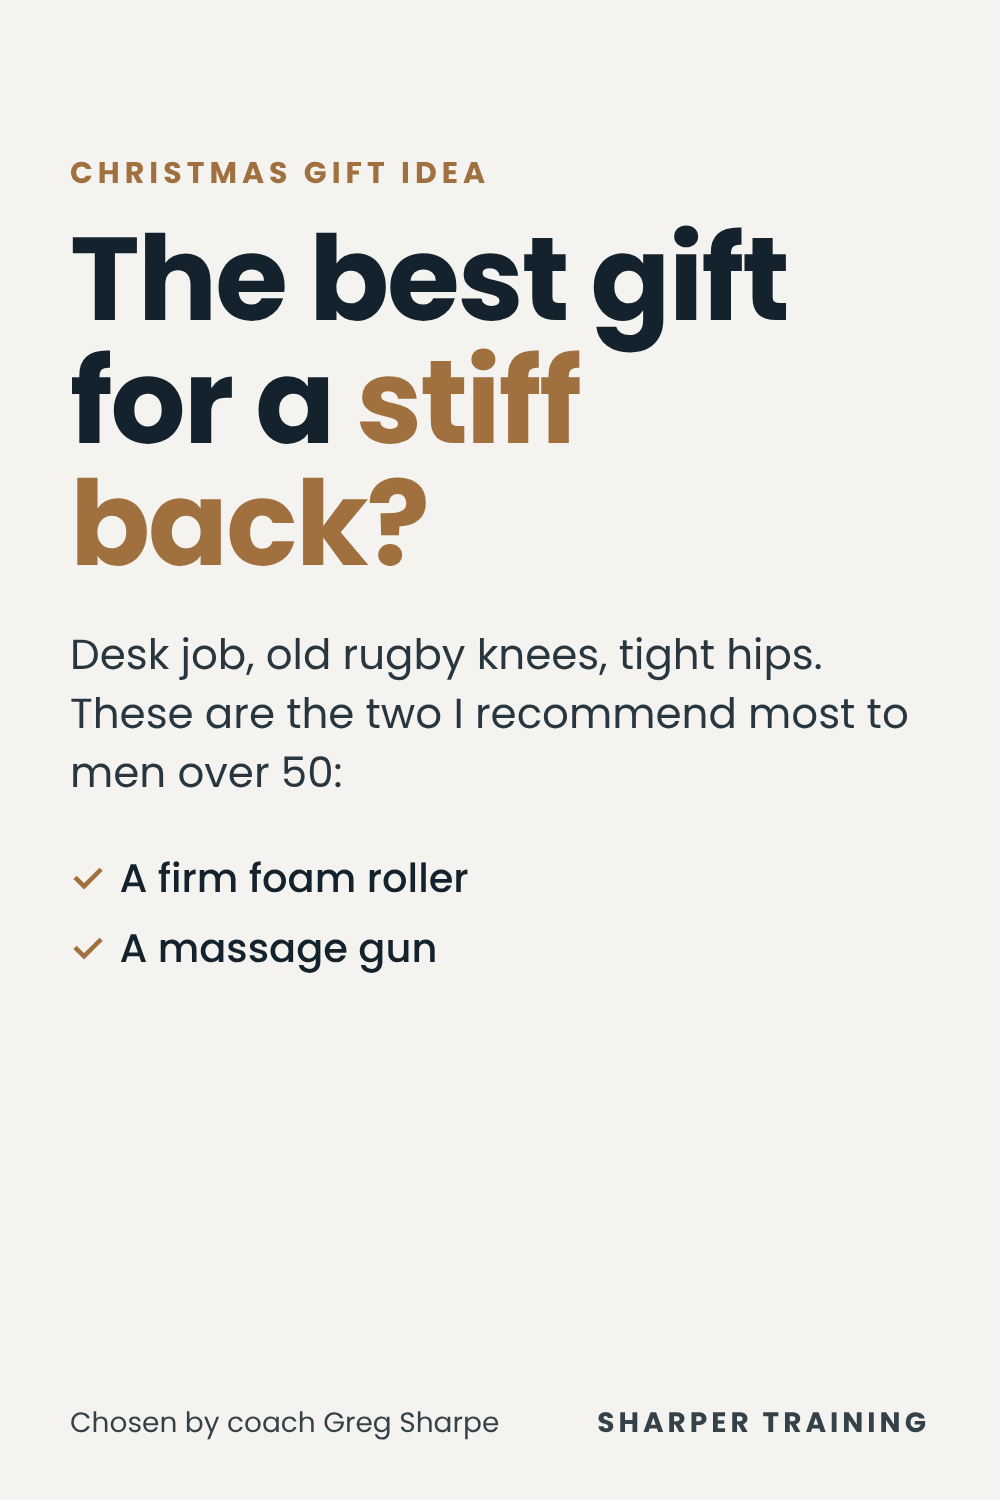
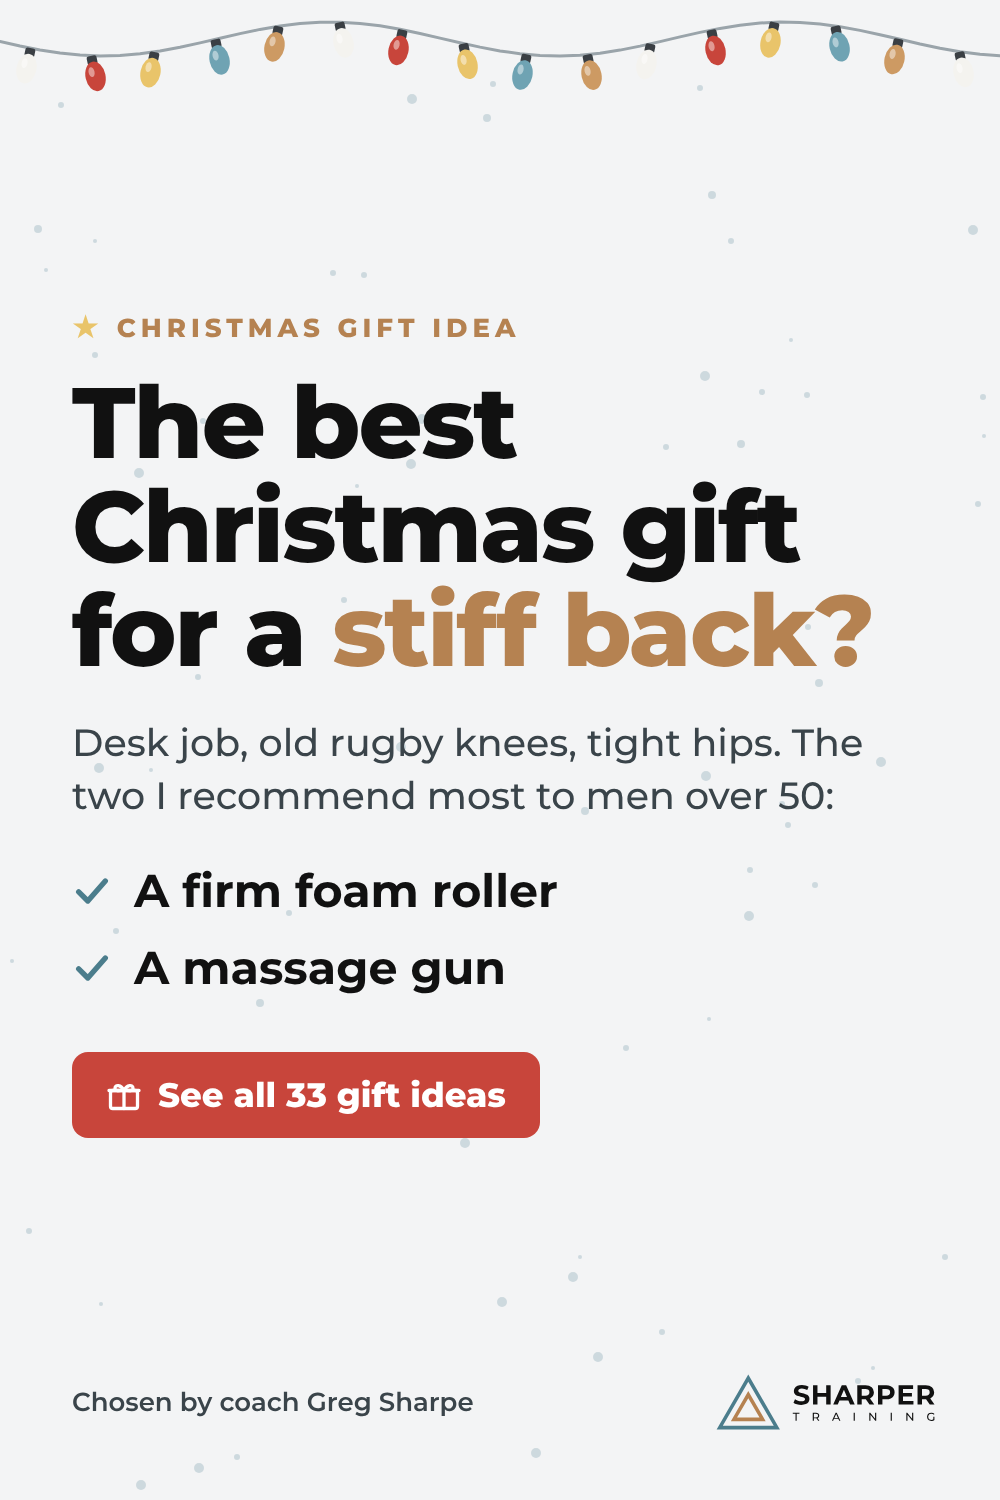
Christmas push: 12 festive pins and 5 new gift groups (33 gifts)
Claude-Session: https://claude.ai/code/session_015ohGiq4ghnF5HGmK74fQ6i

diff --git a/gifts/index.html b/gifts/index.html
@@ -86,7 +86,7 @@ footer p+p{margin-top:8px}
       <div>"Buy him one thing he'll use most days. That beats a whole gym he never touches."<small>Greg Sharpe, strength coach, Sharper Training</small></div>
     </div>
     <nav class="jump" aria-label="Jump to a gift group">
-      <a href="#fillers">Under £20</a><a href="#home">Home kit</a><a href="#recovery">Stiff backs</a><a href="#travel">He travels</a><a href="#big">Bigger budget</a><a href="#voucher">Gift voucher</a>
+      <a href="#fillers">Under £20</a><a href="#home">Home kit</a><a href="#recovery">Stiff backs</a><a href="#travel">He travels</a><a href="#big">Bigger budget</a><a href="#grip">Grip</a><a href="#walk">Dog walker</a><a href="#rugby">Old rugby player</a><a href="#run">Runner</a><a href="#calm">Calm corner</a><a href="#voucher">Gift voucher</a>
     </nav>
   </div>
 </header>
@@ -152,6 +152,32 @@ const groups = [
    ["Adjustable dumbbells","£100+","A rack of weights in the space of two. The best single home-gym buy.","adjustable dumbbells set",true],
    ["Adjustable bench","£80+","Turns dumbbells into a proper gym. Check it folds if space is tight.","adjustable weight bench foldable"],
    ["Supportive training shoes","£60+","Flat, stable trainers for lifting and walking. Not running shoes.","men's training shoes cross trainer"],
+ ]},
+ { id:"grip", title:"Grip strength gifts", why:"Strong hands carry the shopping, open the jar and hold the grandkids. Cheap kit, a few minutes a day.", items:[
+   ["Thick bar grips","Under £25","Clip onto any dumbbell or pull-up bar and make every lift a grip workout.","thick bar grips dumbbell",true],
+   ["Wrist roller","Under £20","Old-school forearm builder. Hang a small plate off it and roll.","wrist roller forearm trainer"],
+   ["Adjustable hand gripper set","Under £20","Set it light, squeeze while the kettle boils, add tension as he gets stronger.","adjustable hand gripper set"],
+ ]},
+ { id:"walk", title:"For the man who walks the dog", why:"Winter walks turned into training. No gym needed.", items:[
+   ["Weighted vest","£30–£60","Turns the dog walk into strength work. Start light, around 5–10kg.","weighted vest 10kg",true],
+   ["Rucking backpack","£40+","A sturdy pack he can load with a plate or a few water bottles.","rucking backpack weight plate"],
+   ["Head torch","Under £30","For the 5pm walks in December. Hands free, dog lead in one hand.","rechargeable head torch running"],
+ ]},
+ { id:"rugby", title:"For the old rugby player", why:"From one ex-Richmond player: the knees and shoulders remember every season.", items:[
+   ["Knee sleeves","Under £30","Warm, supported knees for squats, stairs and walking rugby.","knee sleeves compression pair",true],
+   ["Hot and cold wrap","Under £20","Ice after a session, heat before one. Straps onto knees or shoulders.","reusable hot cold gel wrap knee"],
+   ["A proper rugby ball","Under £25","For the garden on Boxing Day with the kids. Size 5 for the grown-ups.","rugby ball size 5"],
+ ]},
+ { id:"run", title:"For the man who still runs", why:"Parkrun every Saturday? Kit that keeps him out there in the dark and the cold.", items:[
+   ["Hi-vis running vest","Under £20","Dark mornings and dark evenings. Be seen.","hi vis running vest reflective",true],
+   ["Running belt","Under £20","Phone, keys and a gel without the bounce.","running belt phone holder"],
+   ["Merino running socks","Under £20","Warm, no blisters, don't smell. Runners love them.","merino wool running socks men"],
+ ]},
+ { id:"calm", title:"The calm corner", why:"Strong body, quiet head. For the man who needs ten minutes of peace.", items:[
+   ["Meditation cushion","Under £40","A proper seat for 10 minutes of breathing before the day starts.","meditation cushion zafu",true],
+   ["Sherpa fleece blanket","Under £30","The winter wind-down essential.","sherpa fleece blanket large"],
+   ["Sleep eye mask","Under £15","Better sleep is the most underrated recovery tool there is.","contoured sleep eye mask"],
+   ["Five-minute journal","Under £20","A few lines a night. Clears the head.","five minute journal"],
  ]},
 ];
 

diff --git a/content/pinterest/christmas-2026/pinterest-christmas-pins.md b/content/pinterest/christmas-2026/pinterest-christmas-pins.md
@@ -1,14 +1,29 @@
-# Pinterest Christmas pins — copy to paste
+# Pinterest Christmas pins: copy to paste
 
-Every description ends with: #ad As an Amazon Associate I earn from qualifying purchases.
-Each pin links to your Christmas gift page, which carries your Amazon affiliate links.
-Post 1–2 a day, newest first. Don't post all 6 at once.
+12 pins, all Christmas-themed. Each one links to the matching section of your Christmas gift page, which carries your Amazon affiliate links.
+Every description already ends with the #ad / Amazon Associates line. Keep it in.
+
+## Posting plan (1–2 a day, from Mon 9 Nov)
+
+| Day | Pins |
+| --- | --- |
+| Mon 9 Nov | 1. Strong at 70 |
+| Tue 10 Nov | 2. Used to be fit · 3. Stocking fillers |
+| Wed 11 Nov | 4. Hotel-room gym |
+| Thu 12 Nov | 5. Stiff back · 6. Won't go to a gym |
+| Fri 13 Nov | 7. Grip strength |
+| Sat 14 Nov | 8. Walks the dog · 9. Old rugby knees |
+| Sun 15 Nov | 10. Still runs |
+| Mon 16 Nov | 11. Calm corner |
+| Tue 17 Nov | 12. Secret Santa |
+
+Then repost the top 3 performers again on Black Friday (27 Nov) and in mid-December.
 
 ---
 
 ## 1. pin-strong-at-70.png
 Board: Christmas Gifts for Men Over 50
-Title: 17 Christmas Gifts for the Dad Who Wants to Be Strong at 70
+Title: 33 Christmas Gifts for the Dad Who Wants to Be Strong at 70
 Description: A coach's picks for dads over 50: kit for strength, balance and recovery that he'll actually use, not leave in the loft. Chosen by Greg Sharpe, Sharper Training. #ad As an Amazon Associate I earn from qualifying purchases.
 Link: https://gregorysharpe15-boop.github.io/future-proof-score/gifts/
 
@@ -16,17 +31,17 @@ Link: https://gregorysharpe15-boop.github.io/future-proof-score/gifts/
 Board: Christmas Gifts for Men Over 50
 Title: Christmas Gifts for the Man Who Used to Be Fit
 Description: Buying for a man who keeps saying he'll "get back into it"? A kettlebell, a weighted vest, a foam roller and a pull-up bar: 4 bits of kit a coach would buy him. #ad As an Amazon Associate I earn from qualifying purchases.
-Link: https://gregorysharpe15-boop.github.io/future-proof-score/gifts/
+Link: https://gregorysharpe15-boop.github.io/future-proof-score/gifts/#home
 
 ## 3. pin-stocking-fillers.png
 Board: Stocking Fillers for Fit Dads
 Title: Stocking Fillers for Fit Dads Under £20
-Description: Small presents that actually get used: mini bands, a massage ball, a grip trainer, a training notebook and a decent water bottle. UK picks from a coach. #ad As an Amazon Associate I earn from qualifying purchases.
+Description: Small Christmas presents that actually get used: mini bands, a massage ball, a grip trainer and a training notebook. UK picks from a coach. #ad As an Amazon Associate I earn from qualifying purchases.
 Link: https://gregorysharpe15-boop.github.io/future-proof-score/gifts/#fillers
 
 ## 4. pin-travel-dad.png
 Board: Christmas Gifts for Men Over 50
-Title: Gifts for the Dad Who Travels for Work: A Hotel-Room Gym in His Suitcase
+Title: Christmas Gifts for the Dad Who Travels for Work: A Hotel-Room Gym in His Suitcase
 Description: Resistance bands, sliders and a travel foam roller. Everything he needs for a 15-minute workout in any hotel room, in any time zone. #ad As an Amazon Associate I earn from qualifying purchases.
 Link: https://gregorysharpe15-boop.github.io/future-proof-score/gifts/#travel
 
@@ -38,6 +53,42 @@ Link: https://gregorysharpe15-boop.github.io/future-proof-score/gifts/#recovery
 
 ## 6. pin-no-gym.png
 Board: Home Gym Gifts
-Title: Home Gym Gifts for Men Over 50 Who Won't Go to a Gym
-Description: Adjustable dumbbells, resistance bands, a mat and a pull-up bar: a full set-up in the spare room. Picked by a strength coach for men 40–65. #ad As an Amazon Associate I earn from qualifying purchases.
+Title: Christmas Home Gym Gifts for Men Over 50 Who Won't Go to a Gym
+Description: Adjustable dumbbells, a kettlebell, a mat and a pull-up bar: a full set-up in the spare room. Picked by a strength coach for men 40–65. #ad As an Amazon Associate I earn from qualifying purchases.
 Link: https://gregorysharpe15-boop.github.io/future-proof-score/gifts/#home
+
+## 7. pin-grip-strength.png
+Board: Christmas Gifts for Men Over 50
+Title: Grip Strength Christmas Gifts for Dad
+Description: Strong hands carry the shopping, open the jar and hold the grandkids. Thick bar grips, a wrist roller and a hand gripper set: cheap kit, a few minutes a day. #ad As an Amazon Associate I earn from qualifying purchases.
+Link: https://gregorysharpe15-boop.github.io/future-proof-score/gifts/#grip
+
+## 8. pin-dog-walker.png
+Board: Christmas Gifts for Men Over 50
+Title: Christmas Gifts for the Dad Who Walks the Dog
+Description: Turn the winter dog walk into training: a weighted vest, a rucking backpack and a head torch for the dark December evenings. A coach's picks. #ad As an Amazon Associate I earn from qualifying purchases.
+Link: https://gregorysharpe15-boop.github.io/future-proof-score/gifts/#walk
+
+## 9. pin-rugby-dad.png
+Board: Christmas Gifts for Men Over 50
+Title: Christmas Gifts for the Dad With Old Rugby Knees
+Description: From one ex-Richmond player: knee sleeves, a hot and cold wrap, and a proper ball for the Boxing Day game in the garden. #ad As an Amazon Associate I earn from qualifying purchases.
+Link: https://gregorysharpe15-boop.github.io/future-proof-score/gifts/#rugby
+
+## 10. pin-runner-dad.png
+Board: Christmas Gifts for Men Over 50
+Title: Christmas Gifts for the Dad Who Still Runs
+Description: Parkrun on Christmas morning? A hi-vis vest, a running belt and merino socks keep him out there through the dark winter months. #ad As an Amazon Associate I earn from qualifying purchases.
+Link: https://gregorysharpe15-boop.github.io/future-proof-score/gifts/#run
+
+## 11. pin-calm-corner.png
+Board: Christmas Gifts for Men Over 50
+Title: The Calm Corner: Christmas Gifts for a Quieter Head
+Description: Strong body, quiet mind. A meditation cushion, a fleece blanket, a sleep mask and a five-minute journal, for the man who needs ten minutes of peace. #ad As an Amazon Associate I earn from qualifying purchases.
+Link: https://gregorysharpe15-boop.github.io/future-proof-score/gifts/#calm
+
+## 12. pin-secret-santa.png
+Board: Stocking Fillers for Fit Dads
+Title: Secret Santa for the Gym Bloke, Under £20
+Description: Cheap, useful, and he'll actually use it: a massage ball, mini resistance bands, a grip trainer and a sleep mask. Picked by a strength coach. #ad As an Amazon Associate I earn from qualifying purchases.
+Link: https://gregorysharpe15-boop.github.io/future-proof-score/gifts/#fillers
